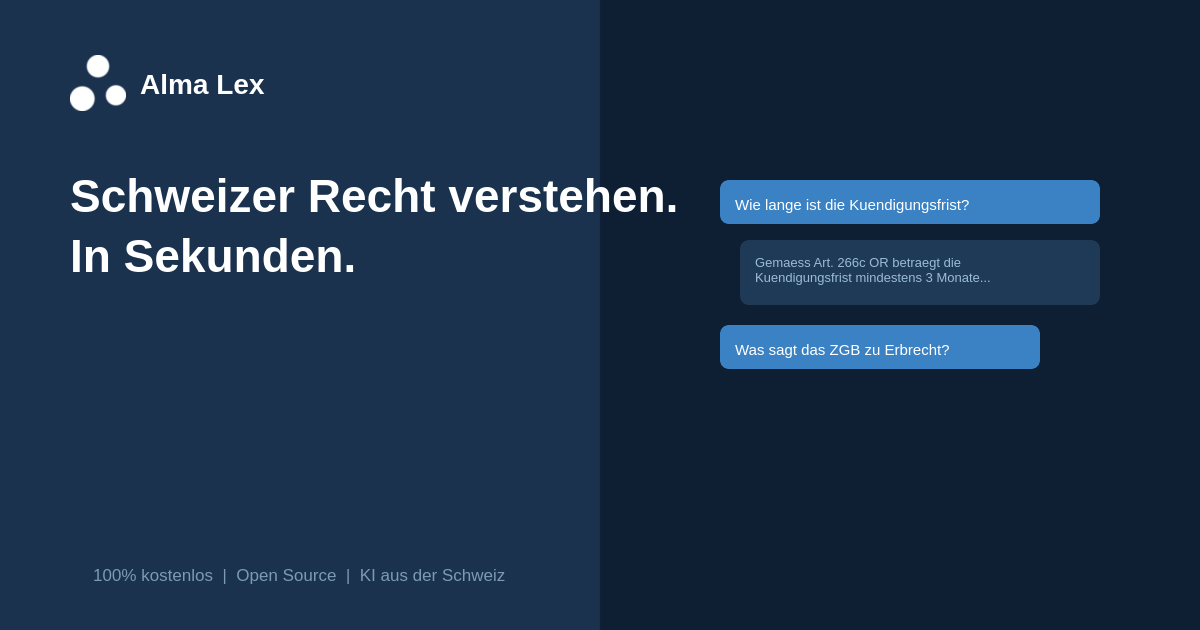
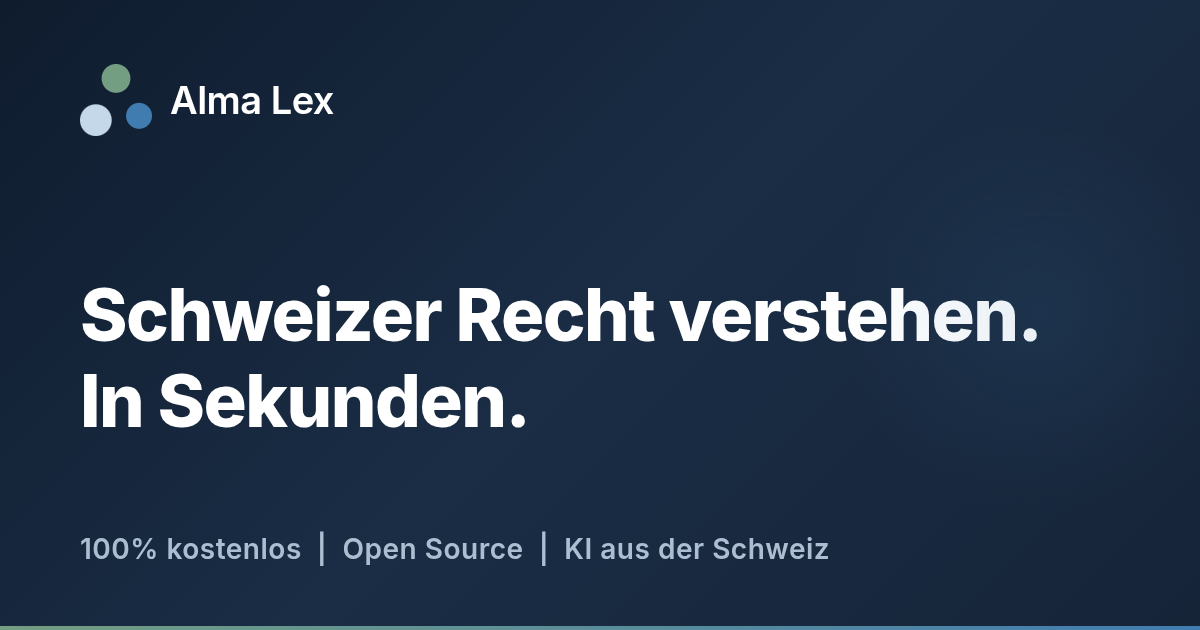
feat: redesign OG images for all languages

diff --git a/frontend/public/og-image-fr.html b/frontend/public/og-image-fr.html
@@ -1,0 +1,84 @@
+<!DOCTYPE html>
+<html>
+<head>
+<meta charset="UTF-8">
+<link rel="preconnect" href="https://fonts.googleapis.com">
+<link href="https://fonts.googleapis.com/css2?family=Inter:wght@600;800&display=swap" rel="stylesheet">
+<style>
+  * { margin: 0; padding: 0; box-sizing: border-box; }
+  body {
+    width: 1200px;
+    height: 630px;
+    background: linear-gradient(135deg, #0f1c2e 0%, #1a2d45 50%, #162438 100%);
+    font-family: 'Inter', -apple-system, BlinkMacSystemFont, 'Segoe UI', Helvetica, Arial, sans-serif;
+    color: white;
+    display: flex;
+    flex-direction: column;
+    padding: 64px 80px;
+    overflow: hidden;
+    position: relative;
+  }
+  .logo-row {
+    display: flex;
+    align-items: center;
+    gap: 18px;
+    margin-bottom: 48px;
+  }
+  .logo-row img {
+    width: 72px;
+    height: 72px;
+  }
+  .logo-row span {
+    font-size: 38px;
+    font-weight: 600;
+    letter-spacing: -0.5px;
+  }
+  .slogan {
+    font-size: 72px;
+    font-weight: 800;
+    line-height: 1.2;
+    letter-spacing: -1.5px;
+    max-width: 1050px;
+    flex: 1;
+    display: flex;
+    align-items: center;
+  }
+  .footer {
+    font-size: 28px;
+    color: rgba(197, 216, 234, 0.85);
+    letter-spacing: 0.5px;
+  }
+  .glow {
+    position: absolute;
+    right: -40px;
+    top: 50%;
+    transform: translateY(-50%);
+    width: 400px;
+    height: 400px;
+    background: radial-gradient(circle, rgba(64, 124, 176, 0.12) 0%, transparent 70%);
+    border-radius: 50%;
+    pointer-events: none;
+  }
+  .accent-bar {
+    position: absolute;
+    bottom: 0;
+    left: 0;
+    right: 0;
+    height: 4px;
+    background: linear-gradient(90deg, #739e82, #407cb0);
+  }
+</style>
+</head>
+<body>
+  <div class="glow"></div>
+  <div class="logo-row">
+    <img src="logo-dark.svg" alt="Alma Lex">
+    <span>Alma Lex</span>
+  </div>
+  <div class="slogan">
+    Comprendre le droit suisse.<br>En quelques secondes.
+  </div>
+  <div class="footer">100% gratuit&nbsp; |&nbsp; Open Source&nbsp; |&nbsp; IA de Suisse</div>
+  <div class="accent-bar"></div>
+</body>
+</html>

diff --git a/frontend/public/og-image-de.html b/frontend/public/og-image-de.html
@@ -1,0 +1,84 @@
+<!DOCTYPE html>
+<html>
+<head>
+<meta charset="UTF-8">
+<link rel="preconnect" href="https://fonts.googleapis.com">
+<link href="https://fonts.googleapis.com/css2?family=Inter:wght@600;800&display=swap" rel="stylesheet">
+<style>
+  * { margin: 0; padding: 0; box-sizing: border-box; }
+  body {
+    width: 1200px;
+    height: 630px;
+    background: linear-gradient(135deg, #0f1c2e 0%, #1a2d45 50%, #162438 100%);
+    font-family: 'Inter', -apple-system, BlinkMacSystemFont, 'Segoe UI', Helvetica, Arial, sans-serif;
+    color: white;
+    display: flex;
+    flex-direction: column;
+    padding: 64px 80px;
+    overflow: hidden;
+    position: relative;
+  }
+  .logo-row {
+    display: flex;
+    align-items: center;
+    gap: 18px;
+    margin-bottom: 48px;
+  }
+  .logo-row img {
+    width: 72px;
+    height: 72px;
+  }
+  .logo-row span {
+    font-size: 38px;
+    font-weight: 600;
+    letter-spacing: -0.5px;
+  }
+  .slogan {
+    font-size: 72px;
+    font-weight: 800;
+    line-height: 1.2;
+    letter-spacing: -1.5px;
+    max-width: 1050px;
+    flex: 1;
+    display: flex;
+    align-items: center;
+  }
+  .footer {
+    font-size: 28px;
+    color: rgba(197, 216, 234, 0.85);
+    letter-spacing: 0.5px;
+  }
+  .glow {
+    position: absolute;
+    right: -40px;
+    top: 50%;
+    transform: translateY(-50%);
+    width: 400px;
+    height: 400px;
+    background: radial-gradient(circle, rgba(64, 124, 176, 0.12) 0%, transparent 70%);
+    border-radius: 50%;
+    pointer-events: none;
+  }
+  .accent-bar {
+    position: absolute;
+    bottom: 0;
+    left: 0;
+    right: 0;
+    height: 4px;
+    background: linear-gradient(90deg, #739e82, #407cb0);
+  }
+</style>
+</head>
+<body>
+  <div class="glow"></div>
+  <div class="logo-row">
+    <img src="logo-dark.svg" alt="Alma Lex">
+    <span>Alma Lex</span>
+  </div>
+  <div class="slogan">
+    Schweizer Recht verstehen.<br>In Sekunden.
+  </div>
+  <div class="footer">100% kostenlos&nbsp; |&nbsp; Open Source&nbsp; |&nbsp; KI aus der Schweiz</div>
+  <div class="accent-bar"></div>
+</body>
+</html>

diff --git a/frontend/public/og-image-en.html b/frontend/public/og-image-en.html
@@ -1,0 +1,84 @@
+<!DOCTYPE html>
+<html>
+<head>
+<meta charset="UTF-8">
+<link rel="preconnect" href="https://fonts.googleapis.com">
+<link href="https://fonts.googleapis.com/css2?family=Inter:wght@600;800&display=swap" rel="stylesheet">
+<style>
+  * { margin: 0; padding: 0; box-sizing: border-box; }
+  body {
+    width: 1200px;
+    height: 630px;
+    background: linear-gradient(135deg, #0f1c2e 0%, #1a2d45 50%, #162438 100%);
+    font-family: 'Inter', -apple-system, BlinkMacSystemFont, 'Segoe UI', Helvetica, Arial, sans-serif;
+    color: white;
+    display: flex;
+    flex-direction: column;
+    padding: 64px 80px;
+    overflow: hidden;
+    position: relative;
+  }
+  .logo-row {
+    display: flex;
+    align-items: center;
+    gap: 18px;
+    margin-bottom: 48px;
+  }
+  .logo-row img {
+    width: 72px;
+    height: 72px;
+  }
+  .logo-row span {
+    font-size: 38px;
+    font-weight: 600;
+    letter-spacing: -0.5px;
+  }
+  .slogan {
+    font-size: 72px;
+    font-weight: 800;
+    line-height: 1.2;
+    letter-spacing: -1.5px;
+    max-width: 1050px;
+    flex: 1;
+    display: flex;
+    align-items: center;
+  }
+  .footer {
+    font-size: 28px;
+    color: rgba(197, 216, 234, 0.85);
+    letter-spacing: 0.5px;
+  }
+  .glow {
+    position: absolute;
+    right: -40px;
+    top: 50%;
+    transform: translateY(-50%);
+    width: 400px;
+    height: 400px;
+    background: radial-gradient(circle, rgba(64, 124, 176, 0.12) 0%, transparent 70%);
+    border-radius: 50%;
+    pointer-events: none;
+  }
+  .accent-bar {
+    position: absolute;
+    bottom: 0;
+    left: 0;
+    right: 0;
+    height: 4px;
+    background: linear-gradient(90deg, #739e82, #407cb0);
+  }
+</style>
+</head>
+<body>
+  <div class="glow"></div>
+  <div class="logo-row">
+    <img src="logo-dark.svg" alt="Alma Lex">
+    <span>Alma Lex</span>
+  </div>
+  <div class="slogan">
+    Understand Swiss Law.<br>In Seconds.
+  </div>
+  <div class="footer">100% free&nbsp; |&nbsp; Open Source&nbsp; |&nbsp; AI from Switzerland</div>
+  <div class="accent-bar"></div>
+</body>
+</html>
